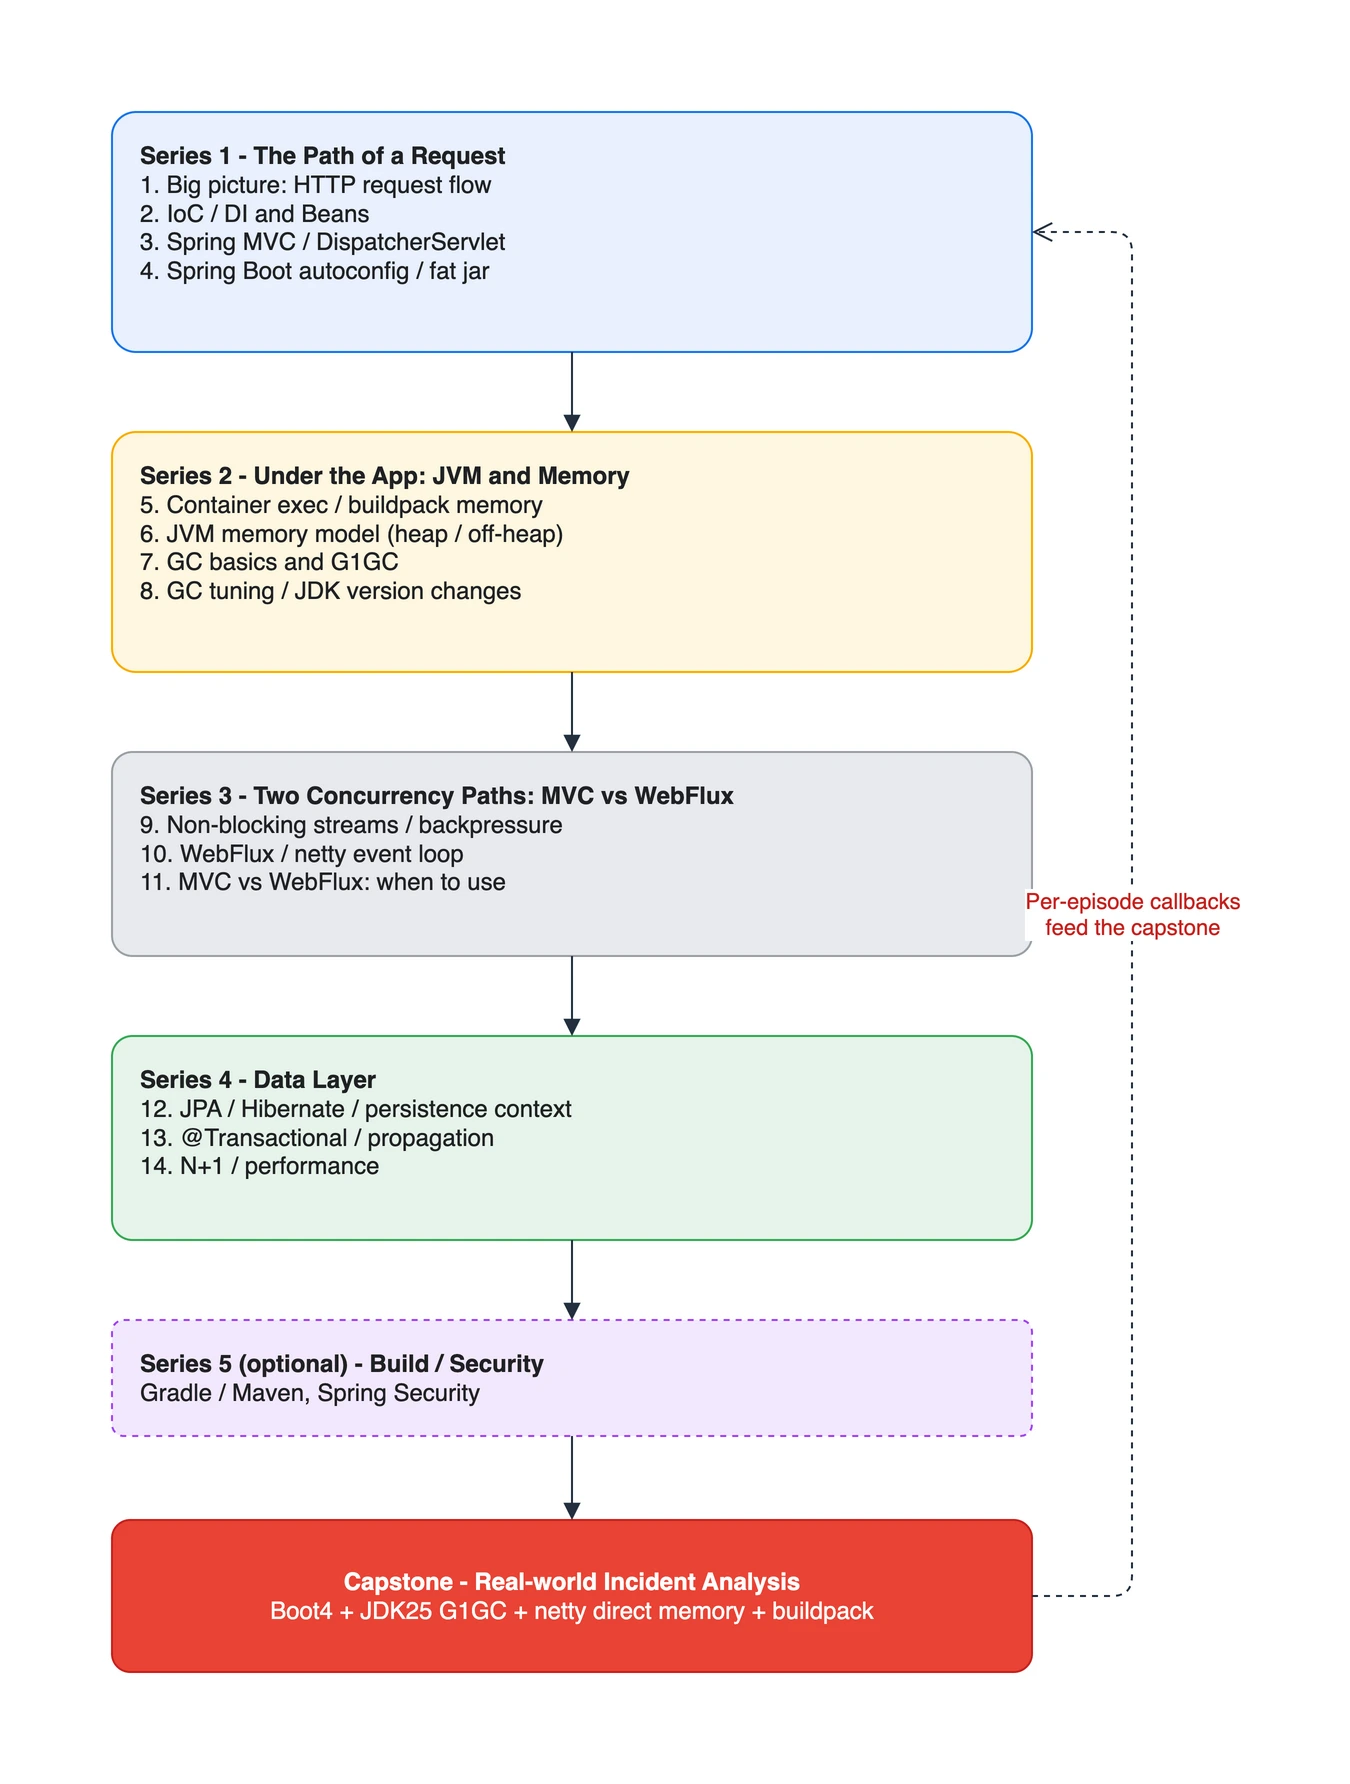
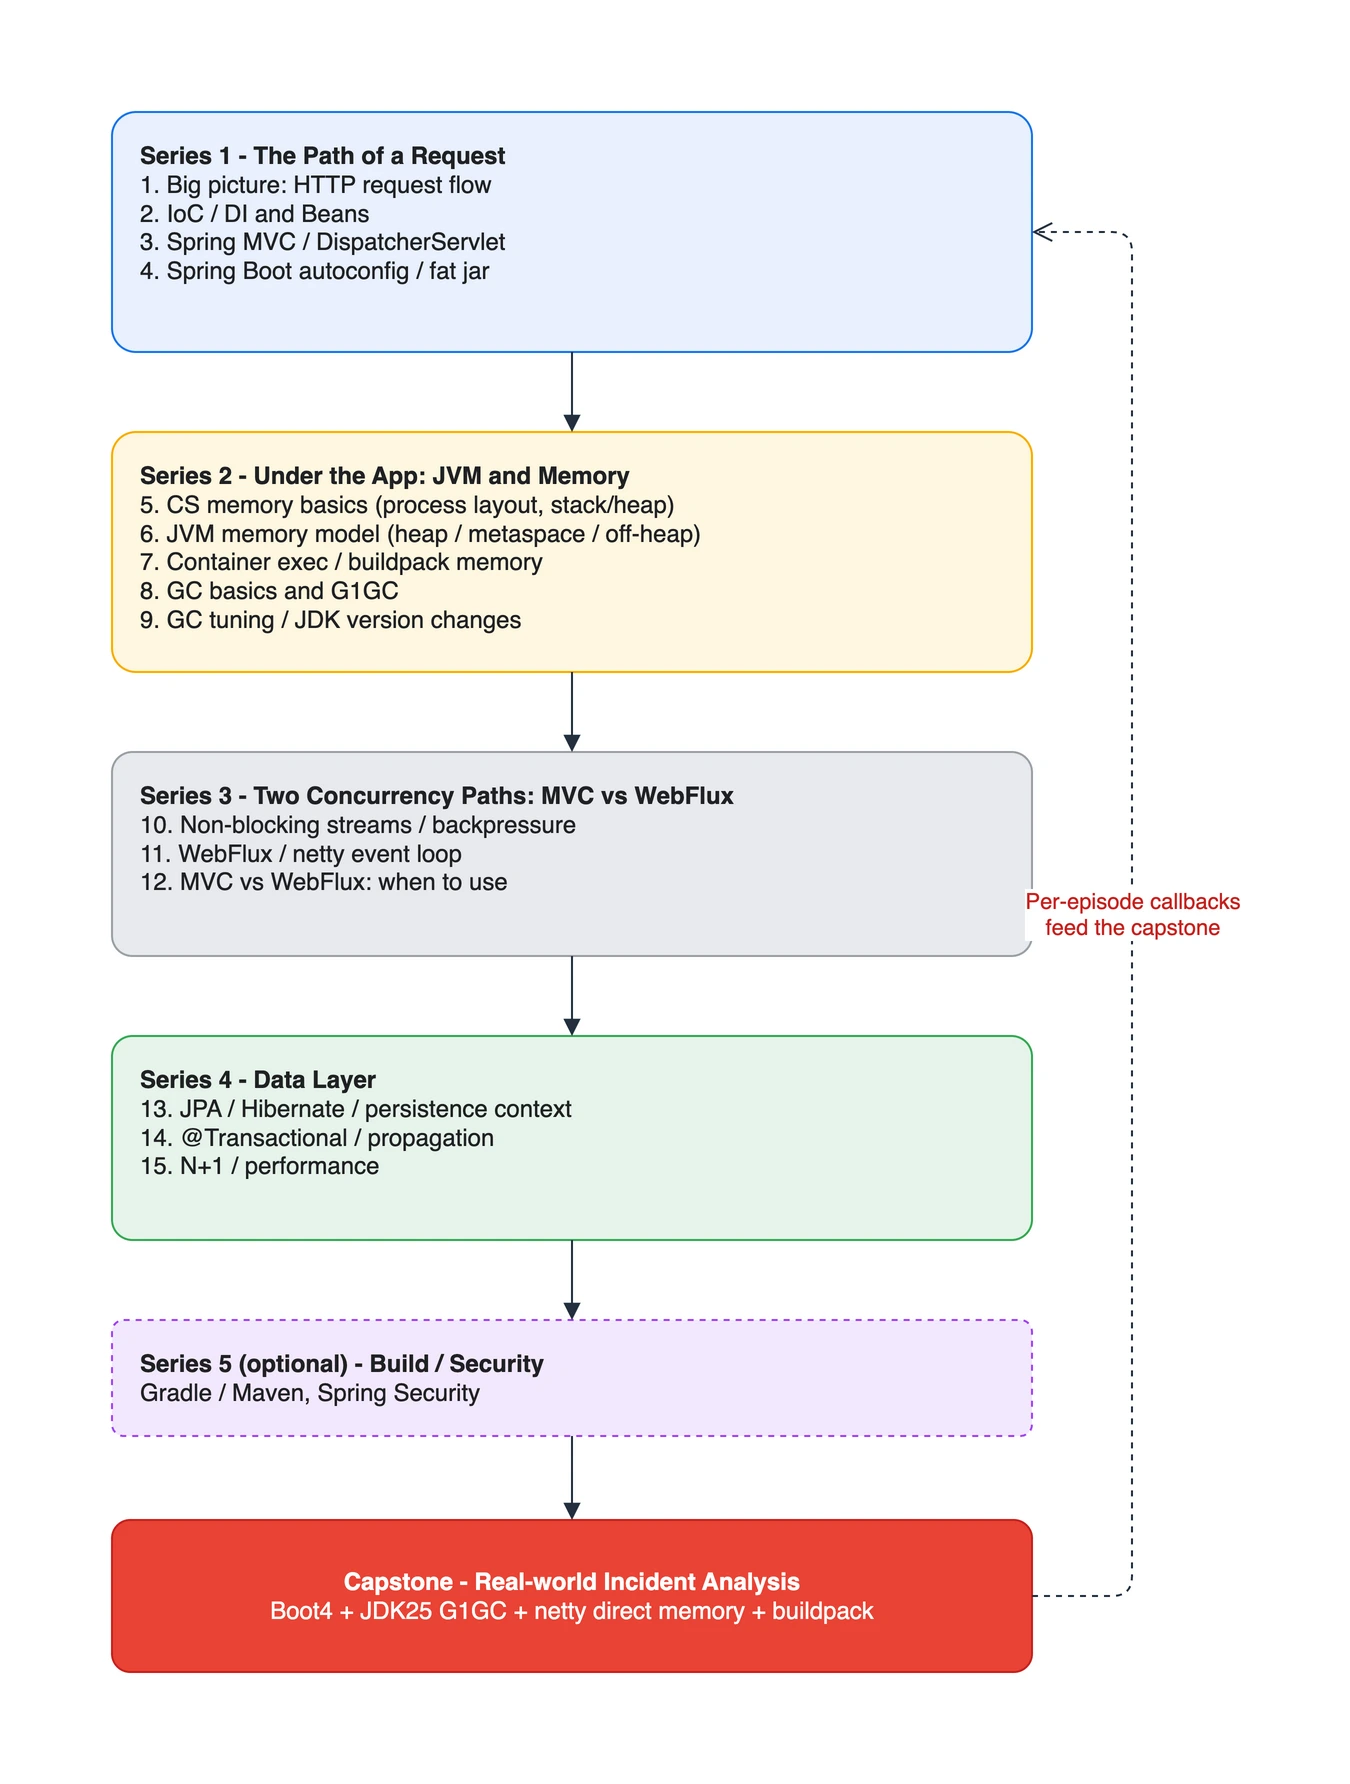
docs(jvm): add process memory layout post (series 2-1) with diagrams and refresh reading-order map

Changed region(s): [[0.1244, 0.2775, 0.5289, 0.37], [0.0933, 0.4624, 0.3733, 0.5241], [0.0933, 0.6166, 0.1244, 0.6474]]

diff --git a/_posts/2026/06/2026-06-23-process-memory-layout.md b/_posts/2026/06/2026-06-23-process-memory-layout.md
@@ -1,0 +1,126 @@
+---
+title: 메모리 기초 다시 보기 - 프로세스 메모리 레이아웃과 stack vs heap
+date: 2026-06-23 11:00:00 +0900
+author: kkamji
+categories: [Programming Language, Java]
+tags: [java, jvm, memory, stack, heap, cs]
+comments: true
+image:
+  path: /assets/img/jvm/jvm-01-process-memory-layout.webp
+---
+
+[Series 1](/posts/spring-request-lifecycle/)에서 "요청이 흐르는 길"을 위에서 아래로 따라왔고, [3편](/posts/spring-mvc-dispatcherservlet/)에서 "스레드 스택은 힙이 아니라 native 메모리"라고 했습니다. 그 stack과 heap이 정확히 뭘까요?
+
+Series 2는 한 계층 더 내려가 JVM과 메모리를 다룹니다. 그 첫걸음으로, JVM 이야기를 하기 전에 **까먹기 쉬운 CS 기초 - 프로세스가 메모리를 어떻게 쓰는가**부터 다시 잡습니다. JVM 메모리(다음 편)도 결국 이 위에 얹히기 때문입니다.
+
+> **TL;DR**  
+> - 프로세스는 자기만의 가상 주소공간을 가지며, 용도별로 text(code) / data / bss / heap / stack 구역으로 나뉜다.  
+> - **stack**: 함수 호출마다 프레임이 쌓이는 자동/LIFO 영역. 스레드마다 하나씩. 빠르고, 함수가 끝나면 자동 해제.  
+> - **heap**: `new`로 동적 할당하는 공유 영역. 느리고, 참조가 살아있는 동안 유지(해제는 수동 또는 GC).  
+> - 레이아웃과 성장 방향은 표준이 아니라 **관례(x86 기준)** 이며 아키텍처/OS마다 다르다.  
+{: .prompt-info}
+
+---
+
+## 1. 프로세스의 가상 주소공간
+
+프로그램이 실행되면 OS는 그 프로세스에게 **자기만의 가상 주소공간**을 줍니다. 각 프로세스는 "나 혼자 이 메모리를 다 쓴다"고 보고, 실제 물리 RAM 매핑과 프로세스 간 격리는 OS와 MMU가 처리합니다.
+
+그 공간은 용도별 구역으로 나뉩니다.
+
+![프로세스 메모리 레이아웃](/assets/img/jvm/jvm-01-process-memory-layout.webp)
+_프로세스 가상 주소공간 (x86 기준 관례)_
+
+각 구역을 위키피디아 정의로 정리하면:
+
+- **text / code**: "executable code and is generally read-only and fixed size" (프로그램 명령어, 읽기 전용)
+- **data**: "initialized static variables ... can be modified" (초기화된 전역/static)
+- **bss**: "uninitialized static data" (초기화 안 된 전역/static)
+- **heap**: "dynamically allocated memory, commonly begins at the end of the BSS segment and **grows to larger addresses**" (동적 할당, 위로 자람)
+- **stack**: "the call stack, a LIFO structure, typically located in the **higher parts of memory**" (호출 스택, 위쪽)
+
+> 주의: 이 레이아웃과 성장 방향은 표준이 아니라 관례입니다. x86에서는 stack이 낮은 주소(heap 쪽)로 자라지만, 위키피디아도 "on some other architectures it grows the opposite direction"이라고 명시합니다. 현대 시스템은 ASLR 등으로 배치를 더 자유롭게 둡니다.  
+{: .prompt-warning}
+
+이번 편의 주인공은 이 중 **stack과 heap**입니다.
+
+---
+
+## 2. Stack: 자동, 빠름, 스레드별
+
+함수를 호출할 때마다 그 함수용 **스택 프레임(stack frame)** 이 stack에 쌓입니다. 프레임에는 지역변수, 파라미터, 복귀 주소 등이 담깁니다.
+
+```text
+process() 호출
+  -> process 프레임 push
+       calc() 호출
+         -> calc 프레임 push
+         -> calc 끝 -> calc 프레임 pop (자동 해제)
+  -> process 끝 -> process 프레임 pop
+```
+
+특징:
+
+- **스레드마다 자기 stack**을 가진다 (Series 1 3편의 "스레드 스택"이 바로 이것).
+- **LIFO + 자동**: 함수가 끝나면 프레임이 그냥 pop된다. 직접 해제하지 않는다.
+- **빠르다**: 할당이 스택 포인터를 옮기는 것뿐이라 탐색도 GC도 없다.
+- **크기 제한**: 정해진 한도가 있어 재귀가 너무 깊으면 stack overflow.
+- **수명**: 그 함수 호출 동안만.
+
+---
+
+## 3. Heap: 동적, 공유, 느림
+
+`new`(Java) 또는 `malloc`(C)으로 **실행 중에 동적으로** 할당하는 영역입니다.
+
+특징:
+
+- **공유**: 모든 스레드가 접근할 수 있다.
+- **동적이고 오래 산다**: 만든 함수가 끝나도 객체는 참조가 있는 한 heap에 남는다.
+- **해제**: C는 수동(`free`), Java는 **GC가 회수**한다 (Series 2 뒤쪽 편 주제).
+- **느리다**: 할당기가 빈 블록을 찾고 장부를 관리해야 하며, 조각화(fragmentation)가 생길 수 있다.
+- **수명**: 참조가 살아있는 동안.
+
+---
+
+## 4. Stack vs Heap 한눈에
+
+```java
+void process() {
+    int count = 10;              // stack: 지역 변수(원시값)
+    Order order = new Order();   // 'order' 참조는 stack, new Order() 객체는 heap
+}
+// process() 가 끝나면:
+//   count, order(참조) -> stack 프레임과 함께 사라짐
+//   Order 객체 -> heap 에 남음 (GC 가 회수할 때까지)
+```
+
+![stack vs heap](/assets/img/jvm/jvm-02-stack-vs-heap.webp)
+_참조(order)는 stack 프레임에, 객체(Order)는 heap에_
+
+| | Stack | Heap |
+| :--- | :--- | :--- |
+| 할당/해제 | 자동(프레임 push/pop) | 동적(new) / GC, free |
+| 소유 | 스레드별 | 전체 공유 |
+| 속도 | 빠름(포인터 이동) | 느림(탐색/장부/조각화) |
+| 담는 것 | 지역변수, 참조, 프레임 | 동적 객체 |
+| 수명 | 함수 호출 동안 | 참조 살아있는 동안 |
+
+---
+
+## 5. JVM, 그리고 Series 1과의 연결
+
+- Series 1 3편의 "스레드 스택 = native 메모리"가 바로 여기 그 **stack**입니다. JVM 프로세스 안에서 스레드마다 하나씩 잡히고, JVM heap(`-Xmx`) 바깥의 native 영역입니다.
+- Java의 `new` 객체가 사는 곳이 여기 그 **heap**인데, JVM에서는 GC가 관리하는 특수한 heap입니다.
+
+> capstone 복선: 컨테이너 메모리는 이 stack(스레드별 native) + heap + 기타를 모두 포함합니다. "왜 `-Xmx`만 보면 안 되나"의 뿌리가 이 레이아웃입니다.  
+{: .prompt-tip}
+
+다음 편에서는 JVM이 이 일반 레이아웃을 어떻게 구체화하는지 - heap을 young/old로 쪼개고, metaspace와 스레드 스택은 native에 두고, direct(off-heap)까지 - 를 매핑합니다.
+
+---
+
+## 6. 참고 자료
+
+- Wikipedia - Data segment (text / data / bss / heap / stack): <https://en.wikipedia.org/wiki/Data_segment>
+- 추가 읽을거리: Operating Systems - Three Easy Pieces (OSTEP), Address Spaces: <https://pages.cs.wisc.edu/~remzi/OSTEP/>